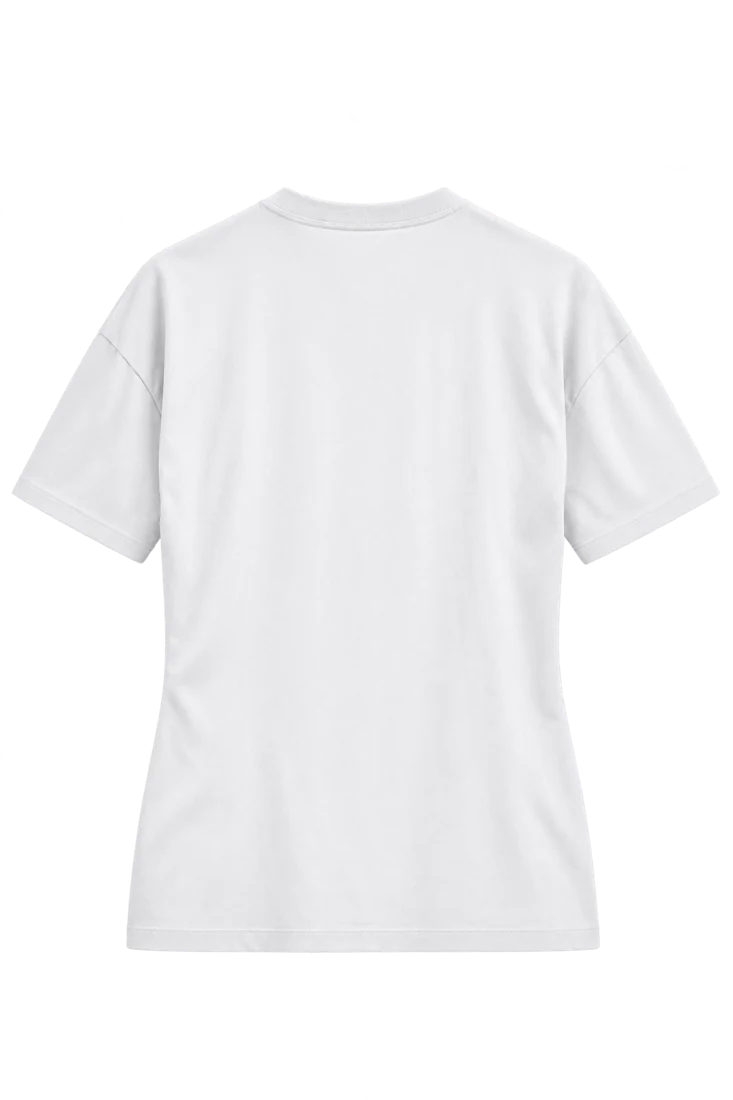
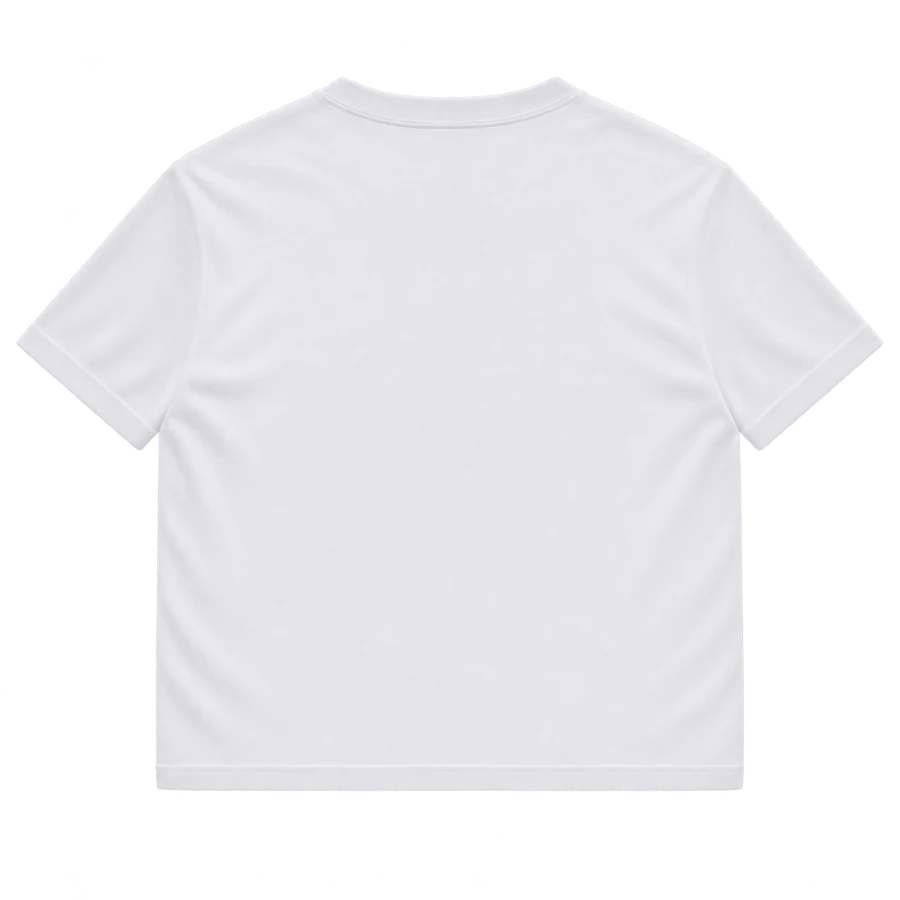
Kadın tişörtünün tok pamuklu ve düzeltilmiş oranlı ön arka görsellerini kullan

diff --git a/index.html b/index.html
@@ -592,7 +592,7 @@ const TEE_ASSETS={
     on:{width:1024,height:1536,left:19,right:1006,top:264,bottom:1330,label:[512,311,122]},
     arka:{width:1024,height:1536,left:15,right:1009,top:260,bottom:1333}
   },
-  kadinTisort:{name:'kadin',on:{width:1024,height:1536,left:22,right:1002,top:262,bottom:1336,label:[509,321,115]},arka:{width:1024,height:1536,left:16,right:1007,top:261,bottom:1333}},
+  kadinTisort:{name:'kadin',on:{width:1254,height:1254,left:23,right:1229,top:108,bottom:1098,wovenLabel:[596,180,63,24]},arka:{width:1254,height:1254,left:23,right:1230,top:108,bottom:1102}},
   cocukTisort:{name:'cocuk',on:{width:1024,height:1536,left:16,right:1006,top:261,bottom:1304,label:[509,323,100]},arka:{width:1024,height:1536,left:22,right:1000,top:262,bottom:1295}}
 };
 function drawTeePhoto(p,face,col,garmentSize){
@@ -617,6 +617,12 @@ function drawTeePhoto(p,face,col,garmentSize){
       paint.drawImage(photo,0,0);
     }
     paint.globalCompositeOperation='source-over';
+    if(frame.wovenLabel&&col!=='#ffffff'){
+      const [x,y,w,h]=frame.wovenLabel;
+      const sx=texture.width/frame.width,sy=texture.height/frame.height;
+      const region=[x*sx,y*sy,w*sx,h*sy];
+      paint.drawImage(photo,...region,...region);
+    }
     if(frame.label){
       const [center,top,width]=frame.label,height=width*35/122;
       paint.save();
